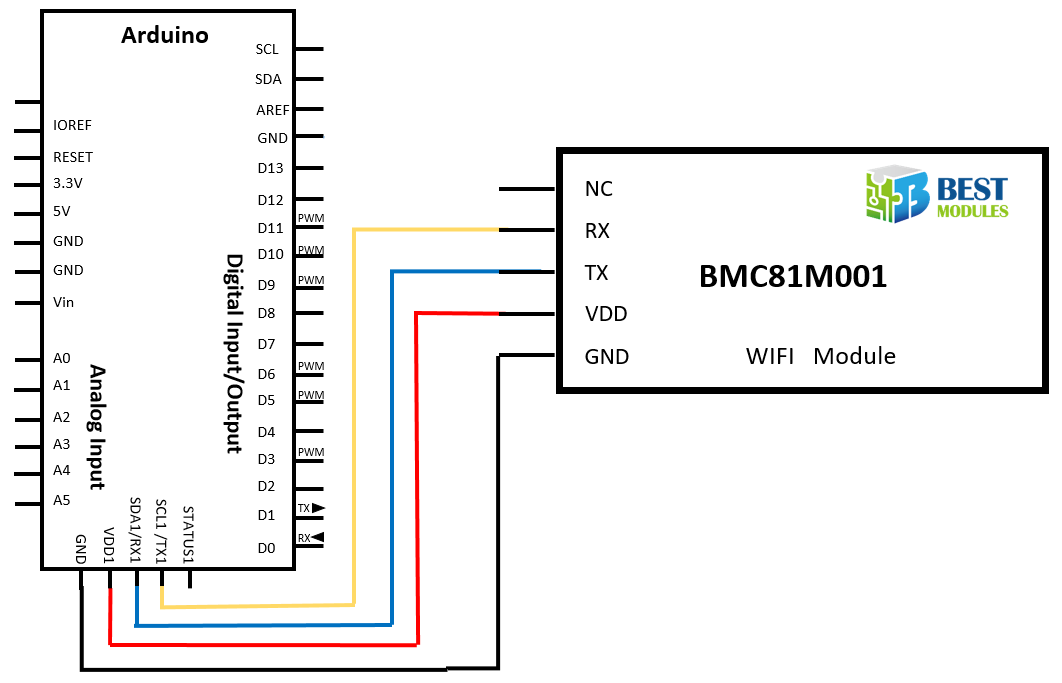
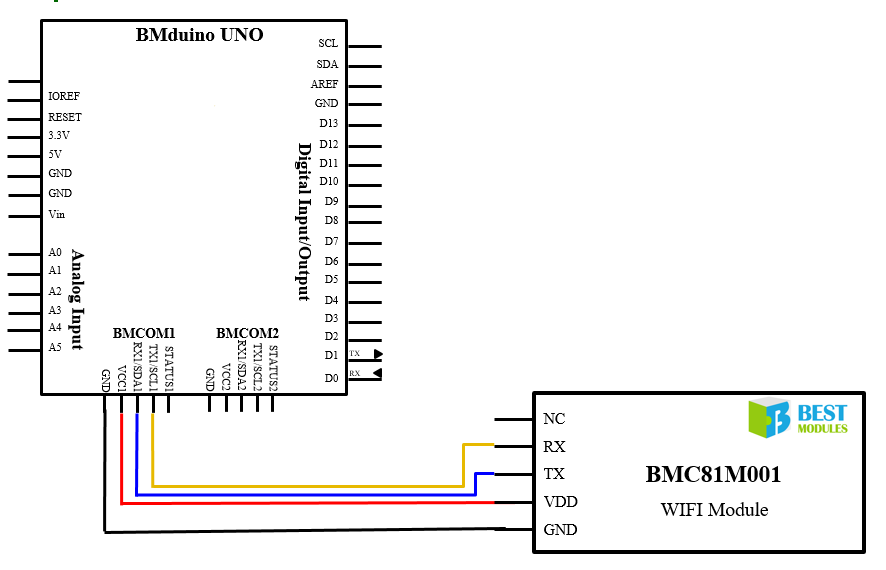
Add files via upload

diff --git a/README.md b/README.md
@@ -28,13 +28,15 @@ Version History
 * **V1.0.1**  
 &emsp;&emsp;- Initial public release.
 * **V1.0.2**  
-&emsp;&emsp;- Add： examples 4 and 5.
+&emsp;&emsp;- Add examples(ThingSpeakPublish,ThingSpeakSubscribe).
 * **V1.0.3**  
-&emsp;&emsp;- Add： examples 6. 
+&emsp;&emsp;- Change the wiring of the example(ThingSpeakPublish);  
+&emsp;&emsp;- Change the pictures(layout and schematic) of the examples (ThingSpeakPublish,ThingSpeakSubscribe).
 * **V1.0.4**  
 &emsp;&emsp;- Perfect example(Aliyun_Iot);  
 &emsp;&emsp;- Add example(ONENET);  
 &emsp;&emsp;- Changed the picture in examples;
+
 License Information
 -------------------
 
